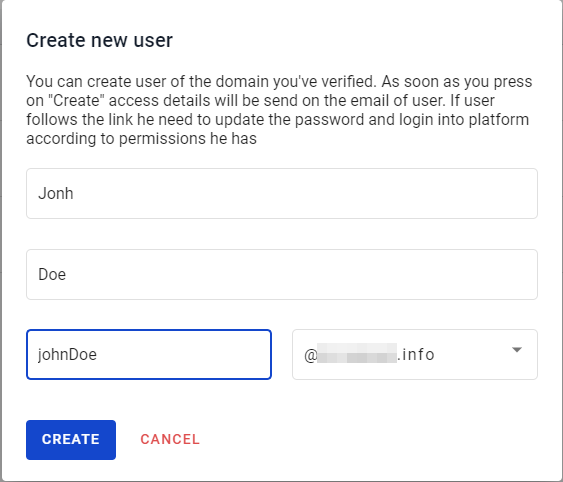
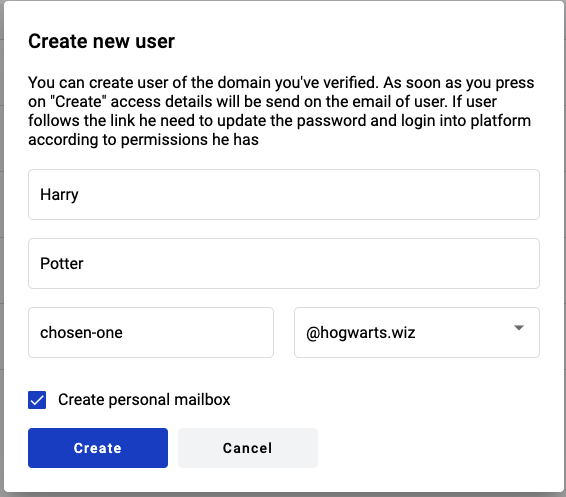
WD-1757: added info about personal mailbox to create user form

diff --git a/docs/source/pages/howToWorkWithPlatform/adminApplication/users/users.rst b/docs/source/pages/howToWorkWithPlatform/adminApplication/users/users.rst
@@ -92,7 +92,7 @@ To create corporate user you have to do the following:
    :width: 600
    :align: center
 
-3. Fill required fields on the user creation form, such as: first, last names, first part of email and select domain part
+3. Fill required fields on the user creation form, such as: first, last names, first part of email and select domain part. Also you can choose to create or not personal mailbox for this user.
 
 .. image:: pic_users/createUserForm.png
    :width: 600
